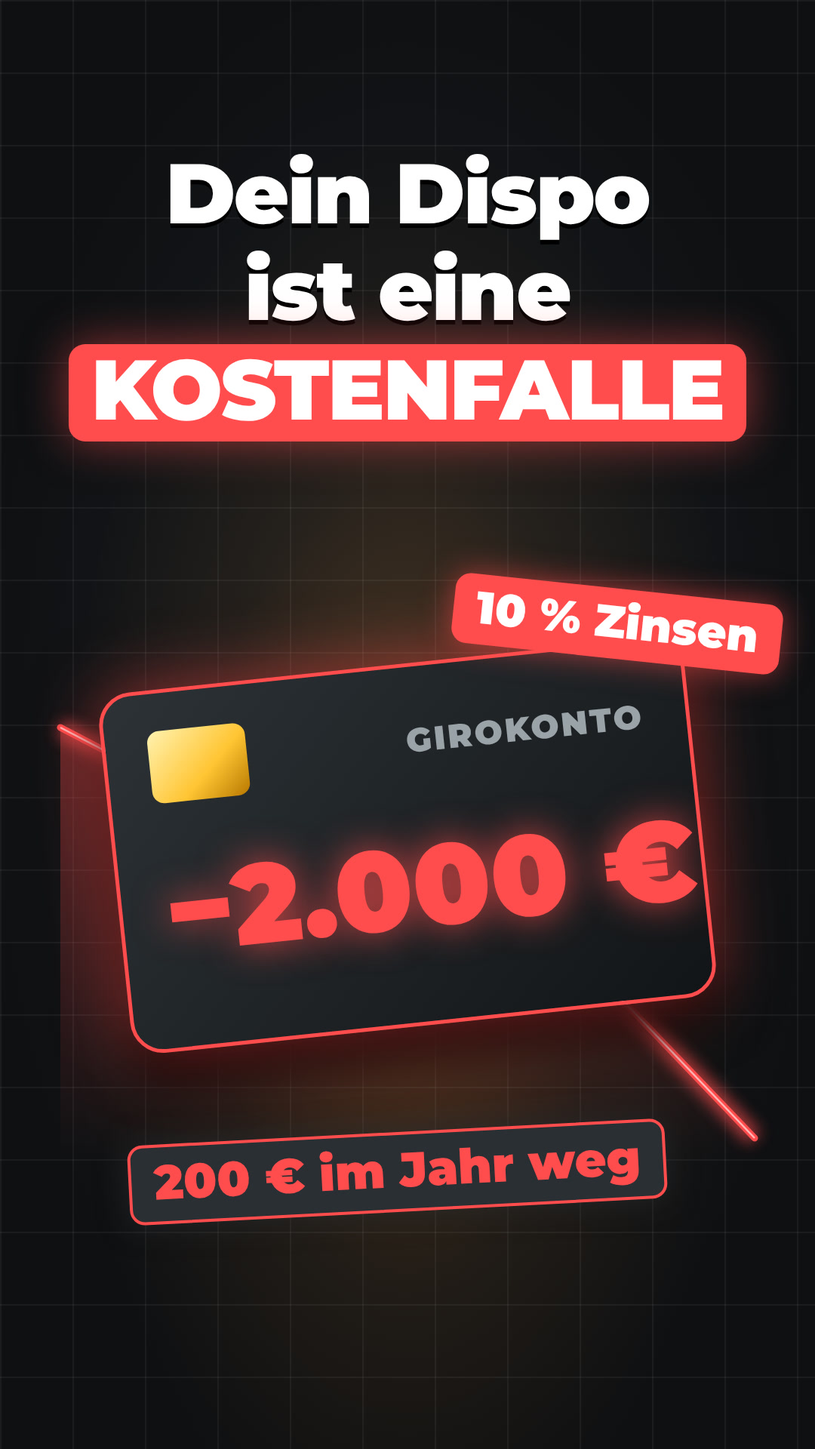
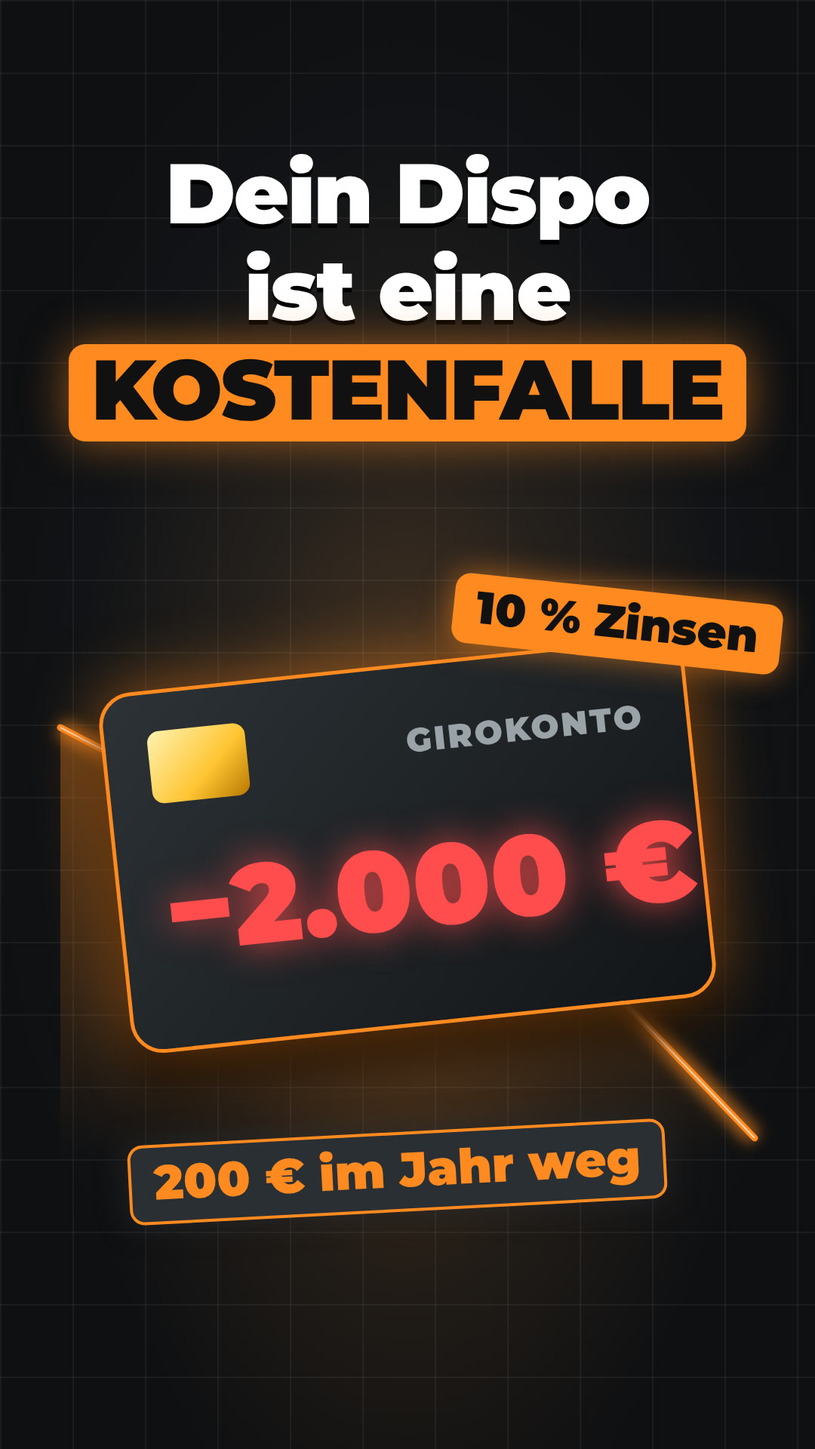
Cover: Orange als dominante Markenfarbe, Regel in STIL.md
Claude-Session: https://claude.ai/code/session_01XBnSHJxa6BBKhWdF9iTPXU

diff --git a/videos/thumbs-drei-konten/index.html b/videos/thumbs-drei-konten/index.html
@@ -18,7 +18,7 @@
   <body>
     <div id="root" data-composition-id="main" data-start="0" data-duration="1" data-width="1080" data-height="1920">
       <div id="raster"></div>
-<div id="v0" class="scene clip" data-start="0" data-duration="1" data-track-index="1"><div style="position:absolute;left:0px;top:210px;width:1080px;font-weight:900;font-size:124px;line-height:1.02;letter-spacing:-2px;text-align:center;display:flex;flex-direction:column;gap:14px;z-index:3"><div style="color:#fff;text-shadow:0 6px 0 #000">Warum</div><div><span style="display:inline-block;padding:4px 30px 10px;border-radius:22px;background:#ff4d4d;color:#fff;box-shadow:0 0 60px #ff4d4d88">EIN Konto</span></div><div style="color:#fff;text-shadow:0 6px 0 #000">nicht reicht</div></div><div style="position:absolute;left:150px;top:830px;width:620px;height:390px;border-radius:36px;transform:rotate(-12deg);background:linear-gradient(135deg,#4d8ff0,#2a5cb8);box-shadow:0 0 60px #4d8ff088, 0 30px 50px #000c;border:3px solid #ffffff33;z-index:2;padding:40px 46px"><div style="display:flex;justify-content:space-between;align-items:center"><div style="font-weight:900;font-size:62px;color:#111">Girokonto</div><div style="width:86px;height:86px;border-radius:50%;background:#111;color:#fff;font-weight:900;font-size:54px;display:flex;align-items:center;justify-content:center">1</div></div><div style="margin-top:40px;width:110px;height:80px;border-radius:14px;background:linear-gradient(135deg,#fff2b0,#ffc533 60%,#b87800)"></div><div style="font-weight:800;font-size:40px;color:#111c;margin-top:30px">Gehalt & Fixkosten</div></div><div style="position:absolute;left:260px;top:1010px;width:620px;height:390px;border-radius:36px;transform:rotate(-3deg);background:linear-gradient(135deg,#3ddc84,#1f9a5a);box-shadow:0 0 60px #3ddc8488, 0 30px 50px #000c;border:3px solid #ffffff33;z-index:2;padding:40px 46px"><div style="display:flex;justify-content:space-between;align-items:center"><div style="font-weight:900;font-size:62px;color:#111">Tagesgeld</div><div style="width:86px;height:86px;border-radius:50%;background:#111;color:#fff;font-weight:900;font-size:54px;display:flex;align-items:center;justify-content:center">2</div></div><div style="margin-top:40px;width:110px;height:80px;border-radius:14px;background:linear-gradient(135deg,#fff2b0,#ffc533 60%,#b87800)"></div><div style="font-weight:800;font-size:40px;color:#111c;margin-top:30px">Notgroschen + Zinsen</div></div><div style="position:absolute;left:330px;top:1190px;width:620px;height:390px;border-radius:36px;transform:rotate(7deg);background:linear-gradient(135deg,#ffa040,#d46a00);box-shadow:0 0 60px #ffa04088, 0 30px 50px #000c;border:3px solid #ffffff33;z-index:2;padding:40px 46px"><div style="display:flex;justify-content:space-between;align-items:center"><div style="font-weight:900;font-size:62px;color:#111">Depot</div><div style="width:86px;height:86px;border-radius:50%;background:#111;color:#fff;font-weight:900;font-size:54px;display:flex;align-items:center;justify-content:center">3</div></div><div style="margin-top:40px;width:110px;height:80px;border-radius:14px;background:linear-gradient(135deg,#fff2b0,#ffc533 60%,#b87800)"></div><div style="font-weight:800;font-size:40px;color:#111c;margin-top:30px">ETF-Sparplan</div></div><svg viewBox="0 0 150 220.0" style="position:absolute;left:70px;top:1380px;width:150px;height:220.0px;overflow:visible;filter:drop-shadow(0 20px 20px #000a);z-index:2"><defs><linearGradient id="m1s" x1="0" x2="1"><stop offset="0" stop-color="#a86a00"/><stop offset="0.45" stop-color="#ffd25e"/><stop offset="1" stop-color="#9a5c00"/></linearGradient><radialGradient id="m1t" cx="0.4" cy="0.35"><stop offset="0" stop-color="#fff2b0"/><stop offset="0.6" stop-color="#ffc533"/><stop offset="1" stop-color="#d48a00"/></radialGradient></defs><path d="M0 158.0 L0 182.0 A75.0 33.0 0 0 0 150 182.0 L150 158.0 Z" fill="url(#m1s)" stroke="#8a5200" stroke-width="1.5"/><ellipse cx="75.0" cy="158.0" rx="75.0" ry="33.0" fill="url(#m1t)" stroke="#b87800" stroke-width="2"/><path d="M0 134.0 L0 158.0 A75.0 33.0 0 0 0 150 158.0 L150 134.0 Z" fill="url(#m1s)" stroke="#8a5200" stroke-width="1.5"/><ellipse cx="75.0" cy="134.0" rx="75.0" ry="33.0" fill="url(#m1t)" stroke="#b87800" stroke-width="2"/><path d="M0 110.0 L0 134.0 A75.0 33.0 0 0 0 150 134.0 L150 110.0 Z" fill="url(#m1s)" stroke="#8a5200" stroke-width="1.5"/><ellipse cx="75.0" cy="110.0" rx="75.0" ry="33.0" fill="url(#m1t)" stroke="#b87800" stroke-width="2"/><path d="M0 86.0 L0 110.0 A75.0 33.0 0 0 0 150 110.0 L150 86.0 Z" fill="url(#m1s)" stroke="#8a5200" stroke-width="1.5"/><ellipse cx="75.0" cy="86.0" rx="75.0" ry="33.0" fill="url(#m1t)" stroke="#b87800" stroke-width="2"/><path d="M0 62.0 L0 86.0 A75.0 33.0 0 0 0 150 86.0 L150 62.0 Z" fill="url(#m1s)" stroke="#8a5200" stroke-width="1.5"/><ellipse cx="75.0" cy="62.0" rx="75.0" ry="33.0" fill="url(#m1t)" stroke="#b87800" stroke-width="2"/><path d="M0 38.0 L0 62.0 A75.0 33.0 0 0 0 150 62.0 L150 38.0 Z" fill="url(#m1s)" stroke="#8a5200" stroke-width="1.5"/><ellipse cx="75.0" cy="38.0" rx="75.0" ry="33.0" fill="url(#m1t)" stroke="#b87800" stroke-width="2"/><text x="75.0" y="51.5" text-anchor="middle" font-family="Montserrat" font-weight="900" font-size="39.0" fill="#b87800">€</text></svg><div style="position:absolute;left:150px;top:1690px;padding:8px 30px 12px;border-radius:20px;background:#ff8a1f;color:#111;font-weight:900;font-size:62px;white-space:nowrap;box-shadow:0 0 40px #ff8a1f99;transform:rotate(0deg);z-index:3">Das 3-Konten-Modell</div></div>
+<div id="v0" class="scene clip" data-start="0" data-duration="1" data-track-index="1"><div style="position:absolute;left:0px;top:210px;width:1080px;font-weight:900;font-size:124px;line-height:1.02;letter-spacing:-2px;text-align:center;display:flex;flex-direction:column;gap:14px;z-index:3"><div style="color:#fff;text-shadow:0 6px 0 #000">Warum</div><div><span style="display:inline-block;padding:4px 30px 10px;border-radius:22px;background:#ff8a1f;color:#111;box-shadow:0 0 60px #ff8a1f88">EIN Konto</span></div><div style="color:#fff;text-shadow:0 6px 0 #000">nicht reicht</div></div><div style="position:absolute;left:150px;top:830px;width:620px;height:390px;border-radius:36px;transform:rotate(-12deg);background:linear-gradient(135deg,#4d8ff0,#2a5cb8);box-shadow:0 0 60px #4d8ff088, 0 30px 50px #000c;border:3px solid #ffffff33;z-index:2;padding:40px 46px"><div style="display:flex;justify-content:space-between;align-items:center"><div style="font-weight:900;font-size:62px;color:#111">Girokonto</div><div style="width:86px;height:86px;border-radius:50%;background:#111;color:#fff;font-weight:900;font-size:54px;display:flex;align-items:center;justify-content:center">1</div></div><div style="margin-top:40px;width:110px;height:80px;border-radius:14px;background:linear-gradient(135deg,#fff2b0,#ffc533 60%,#b87800)"></div><div style="font-weight:800;font-size:40px;color:#111c;margin-top:30px">Gehalt & Fixkosten</div></div><div style="position:absolute;left:260px;top:1010px;width:620px;height:390px;border-radius:36px;transform:rotate(-3deg);background:linear-gradient(135deg,#3ddc84,#1f9a5a);box-shadow:0 0 60px #3ddc8488, 0 30px 50px #000c;border:3px solid #ffffff33;z-index:2;padding:40px 46px"><div style="display:flex;justify-content:space-between;align-items:center"><div style="font-weight:900;font-size:62px;color:#111">Tagesgeld</div><div style="width:86px;height:86px;border-radius:50%;background:#111;color:#fff;font-weight:900;font-size:54px;display:flex;align-items:center;justify-content:center">2</div></div><div style="margin-top:40px;width:110px;height:80px;border-radius:14px;background:linear-gradient(135deg,#fff2b0,#ffc533 60%,#b87800)"></div><div style="font-weight:800;font-size:40px;color:#111c;margin-top:30px">Notgroschen + Zinsen</div></div><div style="position:absolute;left:330px;top:1190px;width:620px;height:390px;border-radius:36px;transform:rotate(7deg);background:linear-gradient(135deg,#ffa040,#d46a00);box-shadow:0 0 60px #ffa04088, 0 30px 50px #000c;border:3px solid #ffffff33;z-index:2;padding:40px 46px"><div style="display:flex;justify-content:space-between;align-items:center"><div style="font-weight:900;font-size:62px;color:#111">Depot</div><div style="width:86px;height:86px;border-radius:50%;background:#111;color:#fff;font-weight:900;font-size:54px;display:flex;align-items:center;justify-content:center">3</div></div><div style="margin-top:40px;width:110px;height:80px;border-radius:14px;background:linear-gradient(135deg,#fff2b0,#ffc533 60%,#b87800)"></div><div style="font-weight:800;font-size:40px;color:#111c;margin-top:30px">ETF-Sparplan</div></div><svg viewBox="0 0 150 220.0" style="position:absolute;left:70px;top:1380px;width:150px;height:220.0px;overflow:visible;filter:drop-shadow(0 20px 20px #000a);z-index:2"><defs><linearGradient id="m1s" x1="0" x2="1"><stop offset="0" stop-color="#a86a00"/><stop offset="0.45" stop-color="#ffd25e"/><stop offset="1" stop-color="#9a5c00"/></linearGradient><radialGradient id="m1t" cx="0.4" cy="0.35"><stop offset="0" stop-color="#fff2b0"/><stop offset="0.6" stop-color="#ffc533"/><stop offset="1" stop-color="#d48a00"/></radialGradient></defs><path d="M0 158.0 L0 182.0 A75.0 33.0 0 0 0 150 182.0 L150 158.0 Z" fill="url(#m1s)" stroke="#8a5200" stroke-width="1.5"/><ellipse cx="75.0" cy="158.0" rx="75.0" ry="33.0" fill="url(#m1t)" stroke="#b87800" stroke-width="2"/><path d="M0 134.0 L0 158.0 A75.0 33.0 0 0 0 150 158.0 L150 134.0 Z" fill="url(#m1s)" stroke="#8a5200" stroke-width="1.5"/><ellipse cx="75.0" cy="134.0" rx="75.0" ry="33.0" fill="url(#m1t)" stroke="#b87800" stroke-width="2"/><path d="M0 110.0 L0 134.0 A75.0 33.0 0 0 0 150 134.0 L150 110.0 Z" fill="url(#m1s)" stroke="#8a5200" stroke-width="1.5"/><ellipse cx="75.0" cy="110.0" rx="75.0" ry="33.0" fill="url(#m1t)" stroke="#b87800" stroke-width="2"/><path d="M0 86.0 L0 110.0 A75.0 33.0 0 0 0 150 110.0 L150 86.0 Z" fill="url(#m1s)" stroke="#8a5200" stroke-width="1.5"/><ellipse cx="75.0" cy="86.0" rx="75.0" ry="33.0" fill="url(#m1t)" stroke="#b87800" stroke-width="2"/><path d="M0 62.0 L0 86.0 A75.0 33.0 0 0 0 150 86.0 L150 62.0 Z" fill="url(#m1s)" stroke="#8a5200" stroke-width="1.5"/><ellipse cx="75.0" cy="62.0" rx="75.0" ry="33.0" fill="url(#m1t)" stroke="#b87800" stroke-width="2"/><path d="M0 38.0 L0 62.0 A75.0 33.0 0 0 0 150 62.0 L150 38.0 Z" fill="url(#m1s)" stroke="#8a5200" stroke-width="1.5"/><ellipse cx="75.0" cy="38.0" rx="75.0" ry="33.0" fill="url(#m1t)" stroke="#b87800" stroke-width="2"/><text x="75.0" y="51.5" text-anchor="middle" font-family="Montserrat" font-weight="900" font-size="39.0" fill="#b87800">€</text></svg><div style="position:absolute;left:150px;top:1690px;padding:8px 30px 12px;border-radius:20px;background:#ff8a1f;color:#111;font-weight:900;font-size:62px;white-space:nowrap;box-shadow:0 0 40px #ff8a1f99;transform:rotate(0deg);z-index:3">Das 3-Konten-Modell</div></div>
     </div>
     <script>
       const tl = gsap.timeline({ paused: true });

diff --git a/videos/thumbs-auto/index.html b/videos/thumbs-auto/index.html
@@ -18,7 +18,7 @@
   <body>
     <div id="root" data-composition-id="main" data-start="0" data-duration="1" data-width="1080" data-height="1920">
       <div id="raster"></div>
-<div id="v0" class="scene clip" data-start="0" data-duration="1" data-track-index="1"><div style="position:absolute;left:0px;top:160px;width:1080px;font-weight:900;font-size:112px;line-height:1.02;letter-spacing:-2px;text-align:center;display:flex;flex-direction:column;gap:14px;z-index:3"><div style="color:#fff;text-shadow:0 6px 0 #000">Dein Auto</div><div style="color:#fff;text-shadow:0 6px 0 #000">kostet dich</div><div><span style="display:inline-block;padding:4px 30px 10px;border-radius:22px;background:#ff4d4d;color:#fff;box-shadow:0 0 60px #ff4d4d88">MEHR</span></div><div style="color:#fff;text-shadow:0 6px 0 #000">als du denkst</div></div><svg viewBox="0 0 880 420" style="position:absolute;left:100px;top:1110px;width:880px;height:419.76px;overflow:visible;z-index:2"><defs><filter id="ag" x="-30%" y="-30%" width="160%" height="160%"><feGaussianBlur stdDeviation="14"/></filter><linearGradient id="af" x1="0" y1="0" x2="0" y2="1"><stop offset="0" stop-color="#ff6b5e"/><stop offset="1" stop-color="#b8241c"/></linearGradient></defs><path d="M40 300 L40 230 Q40 200 80 195 L170 190 L250 90 Q265 70 300 70 L560 70 Q600 70 625 95 L720 190 L800 200 Q840 205 840 240 L840 300 Z" fill="url(#af)"/><path d="M275 100 L410 100 L410 190 L205 190 Z M440 100 L570 100 Q590 100 605 115 L680 190 L440 190 Z" fill="#cfe6f5" opacity="0.85"/><path d="M40 300 L40 230 Q40 200 80 195 L170 190 L250 90 Q265 70 300 70 L560 70 Q600 70 625 95 L720 190 L800 200 Q840 205 840 240 L840 300 Z" fill="none" stroke="#ff4d4d" stroke-width="30" stroke-linejoin="round" opacity="0.6" filter="url(#ag)"/><path d="M40 300 L40 230 Q40 200 80 195 L170 190 L250 90 Q265 70 300 70 L560 70 Q600 70 625 95 L720 190 L800 200 Q840 205 840 240 L840 300 Z" fill="none" stroke="#fff" stroke-width="4" stroke-linejoin="round" opacity="0.5"/><rect x="790" y="225" width="40" height="22" rx="8" fill="#ffc533"/><circle cx="210" cy="305" r="72" fill="#16191b" stroke="#353a3d" stroke-width="10"/><circle cx="210" cy="305" r="30" fill="#9aa3a8"/><circle cx="670" cy="305" r="72" fill="#16191b" stroke="#353a3d" stroke-width="10"/><circle cx="670" cy="305" r="30" fill="#9aa3a8"/></svg><div style="position:absolute;left:70px;top:1010px;padding:8px 30px 12px;border-radius:20px;background:#2a2f33;color:#ff4d4d;border:3px solid #ff4d4d;font-weight:900;font-size:46px;white-space:nowrap;box-shadow:0 0 40px #2a2f3399;transform:rotate(-6deg);z-index:3">Versicherung</div><div style="position:absolute;left:620px;top:980px;padding:8px 30px 12px;border-radius:20px;background:#2a2f33;color:#ff4d4d;border:3px solid #ff4d4d;font-weight:900;font-size:46px;white-space:nowrap;box-shadow:0 0 40px #2a2f3399;transform:rotate(5deg);z-index:3">Steuer</div><div style="position:absolute;left:90px;top:1520px;padding:8px 30px 12px;border-radius:20px;background:#2a2f33;color:#ff4d4d;border:3px solid #ff4d4d;font-weight:900;font-size:46px;white-space:nowrap;box-shadow:0 0 40px #2a2f3399;transform:rotate(4deg);z-index:3">Werkstatt</div><div style="position:absolute;left:430px;top:1560px;padding:8px 30px 12px;border-radius:20px;background:#2a2f33;color:#ff4d4d;border:3px solid #ff4d4d;font-weight:900;font-size:46px;white-space:nowrap;box-shadow:0 0 40px #2a2f3399;transform:rotate(-5deg);z-index:3">Reifen</div><div style="position:absolute;left:690px;top:1490px;padding:8px 30px 12px;border-radius:20px;background:#2a2f33;color:#ff4d4d;border:3px solid #ff4d4d;font-weight:900;font-size:46px;white-space:nowrap;box-shadow:0 0 40px #2a2f3399;transform:rotate(6deg);z-index:3">Wertverlust</div><div style="position:absolute;left:720px;top:730px;font-weight:900;font-size:150px;color:#ff4d4d;text-shadow:0 0 60px #ff4d4daa;transform:rotate(10deg);z-index:3">?€</div><div style="position:absolute;left:220px;top:1700px;padding:8px 30px 12px;border-radius:20px;background:#ff8a1f;color:#111;font-weight:900;font-size:64px;white-space:nowrap;box-shadow:0 0 40px #ff8a1f99;transform:rotate(0deg);z-index:3">≈ 5.000 € pro Jahr</div></div>
+<div id="v0" class="scene clip" data-start="0" data-duration="1" data-track-index="1"><div style="position:absolute;left:0px;top:160px;width:1080px;font-weight:900;font-size:112px;line-height:1.02;letter-spacing:-2px;text-align:center;display:flex;flex-direction:column;gap:14px;z-index:3"><div style="color:#fff;text-shadow:0 6px 0 #000">Dein Auto</div><div style="color:#fff;text-shadow:0 6px 0 #000">kostet dich</div><div><span style="display:inline-block;padding:4px 30px 10px;border-radius:22px;background:#ff8a1f;color:#111;box-shadow:0 0 60px #ff8a1f88">MEHR</span></div><div style="color:#fff;text-shadow:0 6px 0 #000">als du denkst</div></div><svg viewBox="0 0 880 420" style="position:absolute;left:100px;top:1110px;width:880px;height:419.76px;overflow:visible;z-index:2"><defs><filter id="ag" x="-30%" y="-30%" width="160%" height="160%"><feGaussianBlur stdDeviation="14"/></filter><linearGradient id="af" x1="0" y1="0" x2="0" y2="1"><stop offset="0" stop-color="#ffa040"/><stop offset="1" stop-color="#c25f00"/></linearGradient></defs><path d="M40 300 L40 230 Q40 200 80 195 L170 190 L250 90 Q265 70 300 70 L560 70 Q600 70 625 95 L720 190 L800 200 Q840 205 840 240 L840 300 Z" fill="url(#af)"/><path d="M275 100 L410 100 L410 190 L205 190 Z M440 100 L570 100 Q590 100 605 115 L680 190 L440 190 Z" fill="#cfe6f5" opacity="0.85"/><path d="M40 300 L40 230 Q40 200 80 195 L170 190 L250 90 Q265 70 300 70 L560 70 Q600 70 625 95 L720 190 L800 200 Q840 205 840 240 L840 300 Z" fill="none" stroke="#ff8a1f" stroke-width="30" stroke-linejoin="round" opacity="0.6" filter="url(#ag)"/><path d="M40 300 L40 230 Q40 200 80 195 L170 190 L250 90 Q265 70 300 70 L560 70 Q600 70 625 95 L720 190 L800 200 Q840 205 840 240 L840 300 Z" fill="none" stroke="#fff" stroke-width="4" stroke-linejoin="round" opacity="0.5"/><rect x="790" y="225" width="40" height="22" rx="8" fill="#ffc533"/><circle cx="210" cy="305" r="72" fill="#16191b" stroke="#353a3d" stroke-width="10"/><circle cx="210" cy="305" r="30" fill="#9aa3a8"/><circle cx="670" cy="305" r="72" fill="#16191b" stroke="#353a3d" stroke-width="10"/><circle cx="670" cy="305" r="30" fill="#9aa3a8"/></svg><div style="position:absolute;left:70px;top:1010px;padding:8px 30px 12px;border-radius:20px;background:#2a2f33;color:#ff8a1f;border:3px solid #ff8a1f;font-weight:900;font-size:46px;white-space:nowrap;box-shadow:0 0 40px #2a2f3399;transform:rotate(-6deg);z-index:3">Versicherung</div><div style="position:absolute;left:620px;top:980px;padding:8px 30px 12px;border-radius:20px;background:#2a2f33;color:#ff8a1f;border:3px solid #ff8a1f;font-weight:900;font-size:46px;white-space:nowrap;box-shadow:0 0 40px #2a2f3399;transform:rotate(5deg);z-index:3">Steuer</div><div style="position:absolute;left:90px;top:1520px;padding:8px 30px 12px;border-radius:20px;background:#2a2f33;color:#ff8a1f;border:3px solid #ff8a1f;font-weight:900;font-size:46px;white-space:nowrap;box-shadow:0 0 40px #2a2f3399;transform:rotate(4deg);z-index:3">Werkstatt</div><div style="position:absolute;left:430px;top:1560px;padding:8px 30px 12px;border-radius:20px;background:#2a2f33;color:#ff8a1f;border:3px solid #ff8a1f;font-weight:900;font-size:46px;white-space:nowrap;box-shadow:0 0 40px #2a2f3399;transform:rotate(-5deg);z-index:3">Reifen</div><div style="position:absolute;left:690px;top:1490px;padding:8px 30px 12px;border-radius:20px;background:#2a2f33;color:#ff8a1f;border:3px solid #ff8a1f;font-weight:900;font-size:46px;white-space:nowrap;box-shadow:0 0 40px #2a2f3399;transform:rotate(6deg);z-index:3">Wertverlust</div><div style="position:absolute;left:720px;top:730px;font-weight:900;font-size:150px;color:#ff8a1f;text-shadow:0 0 60px #ff8a1faa;transform:rotate(10deg);z-index:3">?€</div><div style="position:absolute;left:220px;top:1700px;padding:8px 30px 12px;border-radius:20px;background:#ff8a1f;color:#111;font-weight:900;font-size:64px;white-space:nowrap;box-shadow:0 0 40px #ff8a1f99;transform:rotate(0deg);z-index:3">≈ 5.000 € pro Jahr</div></div>
     </div>
     <script>
       const tl = gsap.timeline({ paused: true });

diff --git a/videos/thumbs-gehalt/index.html b/videos/thumbs-gehalt/index.html
@@ -18,7 +18,7 @@
   <body>
     <div id="root" data-composition-id="main" data-start="0" data-duration="1" data-width="1080" data-height="1920">
       <div id="raster"></div>
-<div id="v0" class="scene clip" data-start="0" data-duration="1" data-track-index="1"><div style="position:absolute;left:0px;top:200px;width:1080px;font-weight:900;font-size:124px;line-height:1.02;letter-spacing:-2px;text-align:center;display:flex;flex-direction:column;gap:14px;z-index:3"><div style="color:#fff;text-shadow:0 6px 0 #000">Mehr Gehalt –</div><div style="color:#fff;text-shadow:0 6px 0 #000">trotzdem</div><div><span style="display:inline-block;padding:4px 30px 10px;border-radius:22px;background:#ff4d4d;color:#fff;box-shadow:0 0 60px #ff4d4d88">PLEITE?</span></div></div><svg viewBox="0 0 860 520" style="position:absolute;left:110px;top:930px;width:860px;height:520px;overflow:visible;z-index:1"><defs><linearGradient id="c1g" x1="0" y1="0" x2="0" y2="1"><stop offset="0" stop-color="#2fd27a" stop-opacity="0.35"/><stop offset="1" stop-color="#2fd27a" stop-opacity="0"/></linearGradient><filter id="c1f" x="-20%" y="-20%" width="140%" height="140%"><feGaussianBlur stdDeviation="10"/></filter></defs><path d="M0 364 L258 364 L275 198 L533 198 L550 42 L860 42" fill="none" stroke="#2fd27a" stroke-width="22" stroke-linejoin="round" opacity="0.7" filter="url(#c1f)"/><path d="M0 364 L258 364 L275 198 L533 198 L550 42 L860 42" fill="none" stroke="#2fd27a" stroke-width="9" stroke-linejoin="round" stroke-linecap="round"/><path d="M0 364 L258 364 L275 198 L533 198 L550 42 L860 42" fill="none" stroke="#fff" stroke-width="2.5" stroke-linejoin="round" opacity="0.6"/></svg><svg viewBox="0 0 860 520" style="position:absolute;left:110px;top:930px;width:860px;height:520px;overflow:visible;z-index:1"><defs><linearGradient id="c2g" x1="0" y1="0" x2="0" y2="1"><stop offset="0" stop-color="#ff4d4d" stop-opacity="0.35"/><stop offset="1" stop-color="#ff4d4d" stop-opacity="0"/></linearGradient><filter id="c2f" x="-20%" y="-20%" width="140%" height="140%"><feGaussianBlur stdDeviation="10"/></filter></defs><path d="M0 458 L172 416 L344 286 L473 234 L645 94 L860 52 L860 520 L0 520 Z" fill="url(#c2g)"/><path d="M0 458 L172 416 L344 286 L473 234 L645 94 L860 52" fill="none" stroke="#ff4d4d" stroke-width="22" stroke-linejoin="round" opacity="0.7" filter="url(#c2f)"/><path d="M0 458 L172 416 L344 286 L473 234 L645 94 L860 52" fill="none" stroke="#ff4d4d" stroke-width="9" stroke-linejoin="round" stroke-linecap="round"/><path d="M0 458 L172 416 L344 286 L473 234 L645 94 L860 52" fill="none" stroke="#fff" stroke-width="2.5" stroke-linejoin="round" opacity="0.6"/></svg><div style="position:absolute;left:120px;top:820px;padding:8px 30px 12px;border-radius:20px;background:#2fd27a;color:#111;font-weight:900;font-size:54px;white-space:nowrap;box-shadow:0 0 40px #2fd27a99;transform:rotate(0deg);z-index:3">+200 € Gehalt</div><div style="position:absolute;left:560px;top:1300px;padding:8px 30px 12px;border-radius:20px;background:#ff4d4d;color:#fff;font-weight:900;font-size:54px;white-space:nowrap;box-shadow:0 0 40px #ff4d4d99;transform:rotate(0deg);z-index:3">Ausgaben</div><div style="position:absolute;left:220px;top:1600px;padding:8px 30px 12px;border-radius:20px;background:#ff8a1f;color:#111;font-weight:900;font-size:64px;white-space:nowrap;box-shadow:0 0 40px #ff8a1f99;transform:rotate(0deg);z-index:3">Lifestyle-Inflation</div></div>
+<div id="v0" class="scene clip" data-start="0" data-duration="1" data-track-index="1"><div style="position:absolute;left:0px;top:200px;width:1080px;font-weight:900;font-size:124px;line-height:1.02;letter-spacing:-2px;text-align:center;display:flex;flex-direction:column;gap:14px;z-index:3"><div style="color:#fff;text-shadow:0 6px 0 #000">Mehr Gehalt –</div><div style="color:#fff;text-shadow:0 6px 0 #000">trotzdem</div><div><span style="display:inline-block;padding:4px 30px 10px;border-radius:22px;background:#ff8a1f;color:#111;box-shadow:0 0 60px #ff8a1f88">PLEITE?</span></div></div><svg viewBox="0 0 860 520" style="position:absolute;left:110px;top:930px;width:860px;height:520px;overflow:visible;z-index:1"><defs><linearGradient id="c1g" x1="0" y1="0" x2="0" y2="1"><stop offset="0" stop-color="#2fd27a" stop-opacity="0.35"/><stop offset="1" stop-color="#2fd27a" stop-opacity="0"/></linearGradient><filter id="c1f" x="-20%" y="-20%" width="140%" height="140%"><feGaussianBlur stdDeviation="10"/></filter></defs><path d="M0 364 L258 364 L275 198 L533 198 L550 42 L860 42" fill="none" stroke="#2fd27a" stroke-width="22" stroke-linejoin="round" opacity="0.7" filter="url(#c1f)"/><path d="M0 364 L258 364 L275 198 L533 198 L550 42 L860 42" fill="none" stroke="#2fd27a" stroke-width="9" stroke-linejoin="round" stroke-linecap="round"/><path d="M0 364 L258 364 L275 198 L533 198 L550 42 L860 42" fill="none" stroke="#fff" stroke-width="2.5" stroke-linejoin="round" opacity="0.6"/></svg><svg viewBox="0 0 860 520" style="position:absolute;left:110px;top:930px;width:860px;height:520px;overflow:visible;z-index:1"><defs><linearGradient id="c2g" x1="0" y1="0" x2="0" y2="1"><stop offset="0" stop-color="#ff8a1f" stop-opacity="0.35"/><stop offset="1" stop-color="#ff8a1f" stop-opacity="0"/></linearGradient><filter id="c2f" x="-20%" y="-20%" width="140%" height="140%"><feGaussianBlur stdDeviation="10"/></filter></defs><path d="M0 458 L172 416 L344 286 L473 234 L645 94 L860 52 L860 520 L0 520 Z" fill="url(#c2g)"/><path d="M0 458 L172 416 L344 286 L473 234 L645 94 L860 52" fill="none" stroke="#ff8a1f" stroke-width="22" stroke-linejoin="round" opacity="0.7" filter="url(#c2f)"/><path d="M0 458 L172 416 L344 286 L473 234 L645 94 L860 52" fill="none" stroke="#ff8a1f" stroke-width="9" stroke-linejoin="round" stroke-linecap="round"/><path d="M0 458 L172 416 L344 286 L473 234 L645 94 L860 52" fill="none" stroke="#fff" stroke-width="2.5" stroke-linejoin="round" opacity="0.6"/></svg><div style="position:absolute;left:120px;top:820px;padding:8px 30px 12px;border-radius:20px;background:#2fd27a;color:#111;font-weight:900;font-size:54px;white-space:nowrap;box-shadow:0 0 40px #2fd27a99;transform:rotate(0deg);z-index:3">+200 € Gehalt</div><div style="position:absolute;left:560px;top:1300px;padding:8px 30px 12px;border-radius:20px;background:#ff8a1f;color:#111;font-weight:900;font-size:54px;white-space:nowrap;box-shadow:0 0 40px #ff8a1f99;transform:rotate(0deg);z-index:3">Ausgaben</div><div style="position:absolute;left:220px;top:1600px;padding:8px 30px 12px;border-radius:20px;background:#2a2f33;color:#ff8a1f;border:4px solid #ff8a1f;font-weight:900;font-size:64px;white-space:nowrap;box-shadow:0 0 40px #2a2f3399;transform:rotate(0deg);z-index:3">Lifestyle-Inflation</div></div>
     </div>
     <script>
       const tl = gsap.timeline({ paused: true });

diff --git a/videos/thumbs-dispo/index.html b/videos/thumbs-dispo/index.html
@@ -18,7 +18,7 @@
   <body>
     <div id="root" data-composition-id="main" data-start="0" data-duration="1" data-width="1080" data-height="1920">
       <div id="raster"></div>
-<div id="v0" class="scene clip" data-start="0" data-duration="1" data-track-index="1"><div style="position:absolute;left:0px;top:200px;width:1080px;font-weight:900;font-size:112px;line-height:1.02;letter-spacing:-2px;text-align:center;display:flex;flex-direction:column;gap:14px;z-index:3"><div style="color:#fff;text-shadow:0 6px 0 #000">Dein Dispo</div><div style="color:#fff;text-shadow:0 6px 0 #000">ist eine</div><div><span style="display:inline-block;padding:4px 30px 10px;border-radius:22px;background:#ff4d4d;color:#fff;box-shadow:0 0 60px #ff4d4d88">KOSTENFALLE</span></div></div><svg viewBox="0 0 920 640" style="position:absolute;left:80px;top:900px;width:920px;height:640px;overflow:visible;z-index:1"><defs><linearGradient id="c1g" x1="0" y1="0" x2="0" y2="1"><stop offset="0" stop-color="#ff4d4d" stop-opacity="0.35"/><stop offset="1" stop-color="#ff4d4d" stop-opacity="0"/></linearGradient><filter id="c1f" x="-20%" y="-20%" width="140%" height="140%"><feGaussianBlur stdDeviation="10"/></filter></defs><path d="M0 64 L184 160 L368 141 L552 352 L736 416 L920 608 L920 640 L0 640 Z" fill="url(#c1g)"/><path d="M0 64 L184 160 L368 141 L552 352 L736 416 L920 608" fill="none" stroke="#ff4d4d" stroke-width="22" stroke-linejoin="round" opacity="0.7" filter="url(#c1f)"/><path d="M0 64 L184 160 L368 141 L552 352 L736 416 L920 608" fill="none" stroke="#ff4d4d" stroke-width="9" stroke-linejoin="round" stroke-linecap="round"/><path d="M0 64 L184 160 L368 141 L552 352 L736 416 L920 608" fill="none" stroke="#fff" stroke-width="2.5" stroke-linejoin="round" opacity="0.6"/></svg><div style="position:absolute;left:150px;top:880px;width:780px;height:480px;border-radius:44px;transform:rotate(-6deg);background:linear-gradient(135deg,#2c3236,#121517);border:5px solid #ff4d4d;box-shadow:0 0 90px #ff4d4d88, 0 40px 60px #000;padding:50px 56px;z-index:2"><div style="display:flex;justify-content:space-between;align-items:center"><div style="width:130px;height:96px;border-radius:16px;background:linear-gradient(135deg,#fff2b0,#ffc533 60%,#b87800)"></div><div style="font-weight:900;font-size:44px;color:#9aa3a8;letter-spacing:3px">GIROKONTO</div></div><div style="margin-top:70px;font-weight:900;font-size:150px;line-height:1;color:#ff4d4d;text-shadow:0 0 50px #ff4d4dcc;white-space:nowrap">−2.000 €</div></div><div style="position:absolute;left:600px;top:780px;padding:8px 30px 12px;border-radius:20px;background:#ff4d4d;color:#fff;font-weight:900;font-size:60px;white-space:nowrap;box-shadow:0 0 40px #ff4d4d99;transform:rotate(6deg);z-index:3">10 % Zinsen</div><div style="position:absolute;left:170px;top:1500px;padding:8px 30px 12px;border-radius:20px;background:#2a2f33;color:#ff4d4d;border:4px solid #ff4d4d;font-weight:900;font-size:64px;white-space:nowrap;box-shadow:0 0 40px #2a2f3399;transform:rotate(-3deg);z-index:3">200 € im Jahr weg</div></div>
+<div id="v0" class="scene clip" data-start="0" data-duration="1" data-track-index="1"><div style="position:absolute;left:0px;top:200px;width:1080px;font-weight:900;font-size:112px;line-height:1.02;letter-spacing:-2px;text-align:center;display:flex;flex-direction:column;gap:14px;z-index:3"><div style="color:#fff;text-shadow:0 6px 0 #000">Dein Dispo</div><div style="color:#fff;text-shadow:0 6px 0 #000">ist eine</div><div><span style="display:inline-block;padding:4px 30px 10px;border-radius:22px;background:#ff8a1f;color:#111;box-shadow:0 0 60px #ff8a1f88">KOSTENFALLE</span></div></div><svg viewBox="0 0 920 640" style="position:absolute;left:80px;top:900px;width:920px;height:640px;overflow:visible;z-index:1"><defs><linearGradient id="c1g" x1="0" y1="0" x2="0" y2="1"><stop offset="0" stop-color="#ff8a1f" stop-opacity="0.35"/><stop offset="1" stop-color="#ff8a1f" stop-opacity="0"/></linearGradient><filter id="c1f" x="-20%" y="-20%" width="140%" height="140%"><feGaussianBlur stdDeviation="10"/></filter></defs><path d="M0 64 L184 160 L368 141 L552 352 L736 416 L920 608 L920 640 L0 640 Z" fill="url(#c1g)"/><path d="M0 64 L184 160 L368 141 L552 352 L736 416 L920 608" fill="none" stroke="#ff8a1f" stroke-width="22" stroke-linejoin="round" opacity="0.7" filter="url(#c1f)"/><path d="M0 64 L184 160 L368 141 L552 352 L736 416 L920 608" fill="none" stroke="#ff8a1f" stroke-width="9" stroke-linejoin="round" stroke-linecap="round"/><path d="M0 64 L184 160 L368 141 L552 352 L736 416 L920 608" fill="none" stroke="#fff" stroke-width="2.5" stroke-linejoin="round" opacity="0.6"/></svg><div style="position:absolute;left:150px;top:880px;width:780px;height:480px;border-radius:44px;transform:rotate(-6deg);background:linear-gradient(135deg,#2c3236,#121517);border:5px solid #ff8a1f;box-shadow:0 0 90px #ff8a1f88, 0 40px 60px #000;padding:50px 56px;z-index:2"><div style="display:flex;justify-content:space-between;align-items:center"><div style="width:130px;height:96px;border-radius:16px;background:linear-gradient(135deg,#fff2b0,#ffc533 60%,#b87800)"></div><div style="font-weight:900;font-size:44px;color:#9aa3a8;letter-spacing:3px">GIROKONTO</div></div><div style="margin-top:70px;font-weight:900;font-size:150px;line-height:1;color:#ff4d4d;text-shadow:0 0 50px #ff4d4dcc;white-space:nowrap">−2.000 €</div></div><div style="position:absolute;left:600px;top:780px;padding:8px 30px 12px;border-radius:20px;background:#ff8a1f;color:#111;font-weight:900;font-size:60px;white-space:nowrap;box-shadow:0 0 40px #ff8a1f99;transform:rotate(6deg);z-index:3">10 % Zinsen</div><div style="position:absolute;left:170px;top:1500px;padding:8px 30px 12px;border-radius:20px;background:#2a2f33;color:#ff8a1f;border:4px solid #ff8a1f;font-weight:900;font-size:64px;white-space:nowrap;box-shadow:0 0 40px #2a2f3399;transform:rotate(-3deg);z-index:3">200 € im Jahr weg</div></div>
     </div>
     <script>
       const tl = gsap.timeline({ paused: true });

diff --git a/videos/thumbs-auto/build.py b/videos/thumbs-auto/build.py
@@ -12,10 +12,10 @@ def auto(x, y, w):
     k = "M40 300 L40 230 Q40 200 80 195 L170 190 L250 90 Q265 70 300 70 L560 70 Q600 70 625 95 L720 190 L800 200 Q840 205 840 240 L840 300 Z"
     return (f'<svg viewBox="0 0 880 420" style="position:absolute;left:{x}px;top:{y}px;width:{w}px;height:{w * 0.477}px;overflow:visible;z-index:2">'
             f'<defs><filter id="ag" x="-30%" y="-30%" width="160%" height="160%"><feGaussianBlur stdDeviation="14"/></filter>'
-            f'<linearGradient id="af" x1="0" y1="0" x2="0" y2="1"><stop offset="0" stop-color="#ff6b5e"/><stop offset="1" stop-color="#b8241c"/></linearGradient></defs>'
+            f'<linearGradient id="af" x1="0" y1="0" x2="0" y2="1"><stop offset="0" stop-color="#ffa040"/><stop offset="1" stop-color="#c25f00"/></linearGradient></defs>'
             f'<path d="{k}" fill="url(#af)"/>'
             f'<path d="M275 100 L410 100 L410 190 L205 190 Z M440 100 L570 100 Q590 100 605 115 L680 190 L440 190 Z" fill="#cfe6f5" opacity="0.85"/>'
-            f'<path d="{k}" fill="none" stroke="{ROT}" stroke-width="30" stroke-linejoin="round" opacity="0.6" filter="url(#ag)"/>'
+            f'<path d="{k}" fill="none" stroke="{OR}" stroke-width="30" stroke-linejoin="round" opacity="0.6" filter="url(#ag)"/>'
             f'<path d="{k}" fill="none" stroke="#fff" stroke-width="4" stroke-linejoin="round" opacity="0.5"/>'
             f'<rect x="790" y="225" width="40" height="22" rx="8" fill="#ffc533"/>'
             + "".join(f'<circle cx="{cx}" cy="305" r="72" fill="#16191b" stroke="#353a3d" stroke-width="10"/><circle cx="{cx}" cy="305" r="30" fill="#9aa3a8"/>' for cx in (210, 670))
@@ -24,10 +24,10 @@ def auto(x, y, w):
 
 KOSTEN = [(70, 1010, "Versicherung", -6), (620, 980, "Steuer", 5), (90, 1520, "Werkstatt", 4), (430, 1560, "Reifen", -5), (690, 1490, "Wertverlust", 6)]
 
-TT = (titel([("Dein Auto", "w"), ("kostet dich", "w"), ("MEHR", "rot"), ("als du denkst", "w")], 0, 160, 112, w=1080, align="center")
+TT = (titel([("Dein Auto", "w"), ("kostet dich", "w"), ("MEHR", "box"), ("als du denkst", "w")], 0, 160, 112, w=1080, align="center")
       + auto(100, 1110, 880)
-      + "".join(pill(x, y, t, "#2a2f33", 46, d).replace("color:#fff", f"color:{ROT};border:3px solid {ROT}") for x, y, t, d in KOSTEN)
-      + f'<div style="position:absolute;left:720px;top:730px;font-weight:900;font-size:150px;color:{ROT};text-shadow:0 0 60px {ROT}aa;transform:rotate(10deg);z-index:3">?€</div>'
+      + "".join(pill(x, y, t, "#2a2f33", 46, d).replace("color:#fff", f"color:{OR};border:3px solid {OR}") for x, y, t, d in KOSTEN)
+      + f'<div style="position:absolute;left:720px;top:730px;font-weight:900;font-size:150px;color:{OR};text-shadow:0 0 60px {OR}aa;transform:rotate(10deg);z-index:3">?€</div>'
       + pill(220, 1700, "≈ 5.000 € pro Jahr", OR, 64))
 
 if __name__ == "__main__":

diff --git a/videos/thumbs-dispo/build.py b/videos/thumbs-dispo/build.py
@@ -5,19 +5,19 @@ from pathlib import Path
 
 HERE = Path(__file__).parent
 sys.path.insert(0, str(HERE.parent.parent / "scripts"))
-from thumbs import ROT, chart, pill, seite, titel  # noqa: E402
+from thumbs import OR, ROT, chart, pill, seite, titel  # noqa: E402
 
 KARTE = (f'<div style="position:absolute;left:150px;top:880px;width:780px;height:480px;border-radius:44px;transform:rotate(-6deg);'
-         f'background:linear-gradient(135deg,#2c3236,#121517);border:5px solid {ROT};box-shadow:0 0 90px {ROT}88, 0 40px 60px #000;padding:50px 56px;z-index:2">'
+         f'background:linear-gradient(135deg,#2c3236,#121517);border:5px solid {OR};box-shadow:0 0 90px {OR}88, 0 40px 60px #000;padding:50px 56px;z-index:2">'
          f'<div style="display:flex;justify-content:space-between;align-items:center"><div style="width:130px;height:96px;border-radius:16px;'
          f'background:linear-gradient(135deg,#fff2b0,#ffc533 60%,#b87800)"></div><div style="font-weight:900;font-size:44px;color:#9aa3a8;letter-spacing:3px">GIROKONTO</div></div>'
          f'<div style="margin-top:70px;font-weight:900;font-size:150px;line-height:1;color:{ROT};text-shadow:0 0 50px {ROT}cc;white-space:nowrap">−2.000 €</div></div>')
 
-TT = (titel([("Dein Dispo", "w"), ("ist eine", "w"), ("KOSTENFALLE", "rot")], 0, 200, 112, w=1080, align="center")
-      + chart([(0, 0.9), (0.2, 0.75), (0.4, 0.78), (0.6, 0.45), (0.8, 0.35), (1, 0.05)], 80, 900, 920, 640, ROT)
+TT = (titel([("Dein Dispo", "w"), ("ist eine", "w"), ("KOSTENFALLE", "box")], 0, 200, 112, w=1080, align="center")
+      + chart([(0, 0.9), (0.2, 0.75), (0.4, 0.78), (0.6, 0.45), (0.8, 0.35), (1, 0.05)], 80, 900, 920, 640, OR)
       + KARTE
-      + pill(600, 780, "10 % Zinsen", ROT, 60, 6)
-      + pill(170, 1500, "200 € im Jahr weg", "#2a2f33", 64, -3).replace("color:#fff", f"color:{ROT};border:4px solid {ROT}"))
+      + pill(600, 780, "10 % Zinsen", OR, 60, 6)
+      + pill(170, 1500, "200 € im Jahr weg", "#2a2f33", 64, -3).replace("color:#fff", f"color:{OR};border:4px solid {OR}"))
 
 if __name__ == "__main__":
     seite(HERE, [TT], tiktok=True, glow=("50%", "60%"))

diff --git a/videos/thumbs-gehalt/build.py b/videos/thumbs-gehalt/build.py
@@ -10,12 +10,12 @@ from thumbs import GRUEN, OR, ROT, chart, pill, seite, titel  # noqa: E402
 GEHALT = [(0, 0.3), (0.3, 0.3), (0.32, 0.62), (0.62, 0.62), (0.64, 0.92), (1, 0.92)]
 AUSGABEN = [(0, 0.12), (0.2, 0.2), (0.4, 0.45), (0.55, 0.55), (0.75, 0.82), (1, 0.9)]
 
-TT = (titel([("Mehr Gehalt –", "w"), ("trotzdem", "w"), ("PLEITE?", "rot")], 0, 200, 124, w=1080, align="center")
+TT = (titel([("Mehr Gehalt –", "w"), ("trotzdem", "w"), ("PLEITE?", "box")], 0, 200, 124, w=1080, align="center")
       + chart(GEHALT, 110, 930, 860, 520, GRUEN, fill=False)
-      + chart(AUSGABEN, 110, 930, 860, 520, ROT, fill=True)
+      + chart(AUSGABEN, 110, 930, 860, 520, OR, fill=True)
       + pill(120, 820, "+200 € Gehalt", GRUEN, 54)
-      + pill(560, 1300, "Ausgaben", ROT, 54)
-      + pill(220, 1600, "Lifestyle-Inflation", OR, 64))
+      + pill(560, 1300, "Ausgaben", OR, 54)
+      + pill(220, 1600, "Lifestyle-Inflation", "#2a2f33", 64).replace("color:#fff", f"color:{OR};border:4px solid {OR}"))
 
 if __name__ == "__main__":
     seite(HERE, [TT], tiktok=True, glow=("50%", "60%"))

diff --git a/videos/thumbs-drei-konten/build.py b/videos/thumbs-drei-konten/build.py
@@ -17,7 +17,7 @@ def karte(x, y, dreh, name, sub, c1, c2, nr):
             f'<div style="font-weight:800;font-size:40px;color:#111c;margin-top:30px">{sub}</div></div>')
 
 
-TT = (titel([("Warum", "w"), ("EIN Konto", "rot"), ("nicht reicht", "w")], 0, 210, 124, w=1080, align="center")
+TT = (titel([("Warum", "w"), ("EIN Konto", "box"), ("nicht reicht", "w")], 0, 210, 124, w=1080, align="center")
       + karte(150, 830, -12, "Girokonto", "Gehalt & Fixkosten", "#4d8ff0", "#2a5cb8", 1)
       + karte(260, 1010, -3, "Tagesgeld", "Notgroschen + Zinsen", "#3ddc84", "#1f9a5a", 2)
       + karte(330, 1190, 7, "Depot", "ETF-Sparplan", "#ffa040", "#d46a00", 3)

diff --git a/scripts/thumbs.py b/scripts/thumbs.py
@@ -2,7 +2,7 @@
 
 Dunkler Hintergrund mit Raster + orangem Leuchten, riesige fette Schrift (weiß + orange Akzente,
 oranger Kasten), leuchtende Chart-Linien mit Wert-Pillen, plastische Objekte (Geldbündel, Münzen, Kugeln),
-Kein Pfoten-Badge (Nutzer: weglassen), kein Rahmen, kein Beagle.
+Orange (Markenfarbe) muss dominieren: Titel-Kasten immer "box" (orange), Rot/Grün nur für kleine Akzente. Kein Pfoten-Badge (Nutzer: weglassen), kein Rahmen, kein Beagle.
 
   from thumbs import *            # in videos/thumbs-<name>/build.py
   seite(HERE, [V1, V2, V3])       # 1920×1080, je 1 s

diff --git a/STIL.md b/STIL.md
@@ -45,3 +45,8 @@ Code-Vorlage: `vorlage/` (Demo: `renders/stil-demo.mp4`).
 - Passende Pose pro Szene wählen, per GSAP animieren (Pop-in, Hüpfen, Zittern); Spiegeln mit `pose(name, flip=True)`.
 - Nicht selbst als SVG nachzeichnen. Fehlt eine Pose, den Nutzer bitten, sie im gleichen Stil zu erstellen.
 - Vorlage für Hunde-Shorts: `videos/hunde-bellen-animiert/build.py`.
+
+## Thumbnails & Cover (ab 25.10., Nutzer-Wunsch)
+- Stil „Dark Glow“ (`scripts/thumbs.py`): dunkler Raster-Hintergrund, leuchtende Linien, fette Montserrat, plastische Objekte – nach Vorbild Finanzbär, aber in **Orange**.
+- **Orange muss dominieren:** Hervorhebungs-Kasten im Titel immer orange; Rot/Grün nur als kleine Akzente (Zahlen, Kurven).
+- **Kein Pfoten-Badge**, kein Beagle, kein Rahmen.
